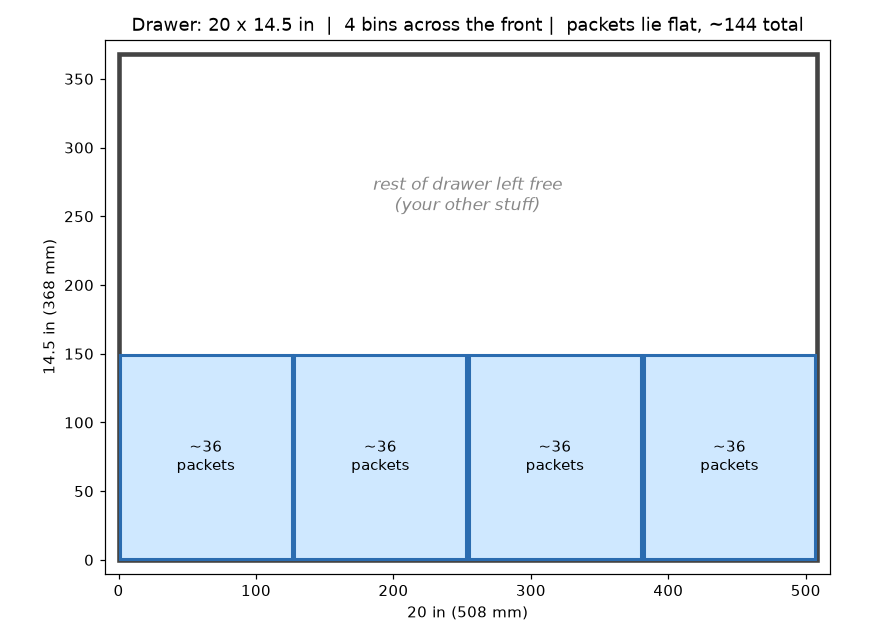
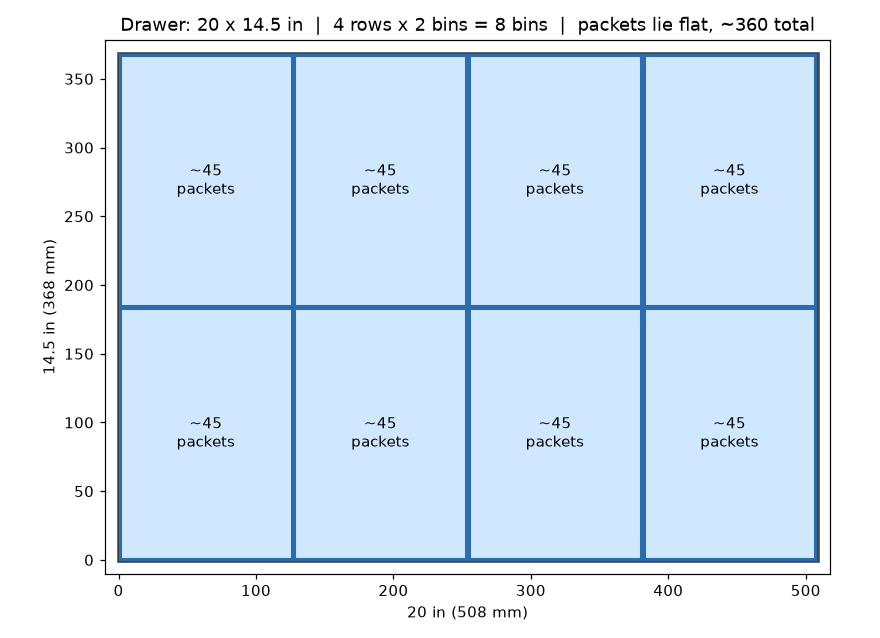
Fill whole drawer: 4 rows x 2 bins (flat-stack)
Rework to 4 rows of 5 in down the 20 in length, each row spanning the
14.5 in width. A full-width tray exceeds the H2D bed (~350 mm), so each
row is 2 bins side by side -> 2 x 4 grid, 8 identical bins filling the
whole drawer. Taller bins (50 mm) for flat stacks. Layout note only
shows free space when the grid does not fill the drawer.

Claude-Session: https://claude.ai/code/session_01N378vC5N84T5hZN3z5JBkC

diff --git a/src/generate_drawer_organizer.py b/src/generate_drawer_organizer.py
@@ -44,11 +44,12 @@ PKT_LEN = 4.25 * IN      # ~108 mm  long side, lies along the box width
 PKT_WIDE = 1.25 * IN     # ~32  mm  short side, lies along the box depth
 PKT_THICK = 0.20 * IN    # ~5   mm  thickness flat -> sets how many stack up
 
-# --- Grid: 4 bins across the FRONT of the drawer (one flavor each) ---
-COLS = 4                 # bins across the 20 in run
-ROWS = 1                 # rows of bins from the front (1 = front strip only)
-BOX_DEPTH = 150.0        # how far each bin reaches back (~6 in); rest of the
-                         # drawer stays free for your other stuff
+# --- Grid: fill the drawer with 5-in-deep rows, 2 bins per row ---
+# A full 14.5 in wide tray (~368 mm) is too big for the H2D bed (~350 mm),
+# so each "row across the width" is 2 bins side by side.
+COLS = 4                 # bins along the 20 in run  (4 x 5 in = 20 in)
+ROWS = 2                 # bins across the 14.5 in run (2 x ~7.25 in)
+BOX_DEPTH = 184.0        # depth per row = 14.5 in / 2 (fills the width)
 DRAWER_GAP = 2.0         # total slack per box per axis (drop-in clearance)
 
 # --- Box build ---
@@ -149,8 +150,11 @@ def main():
         os.makedirs(RENDER_DIR, exist_ok=True)
         fig, ax = plt.subplots(figsize=(8, 8 * DRAWER_W / DRAWER_L))
         ax.add_patch(Rectangle((0, 0), DRAWER_L, DRAWER_W, fill=False, lw=3, ec="#444"))
-        ax.text(DRAWER_L / 2, DRAWER_W * 0.72, "rest of drawer left free\n(your other stuff)",
-                ha="center", va="center", fontsize=11, color="#888", style="italic")
+        covered = ROWS * BOX_DEPTH
+        if covered < DRAWER_W - 20:
+            ax.text(DRAWER_L / 2, (covered + DRAWER_W) / 2,
+                    "rest of drawer left free\n(your other stuff)",
+                    ha="center", va="center", fontsize=11, color="#888", style="italic")
         for c in range(COLS):
             for r in range(ROWS):
                 x = c * (DRAWER_L / COLS) + DRAWER_GAP / 2
@@ -162,8 +166,8 @@ def main():
         ax.set_xlim(-10, DRAWER_L + 10)
         ax.set_ylim(-10, DRAWER_W + 10)
         ax.set_aspect("equal")
-        ax.set_title(f'Drawer: 20 x 14.5 in  |  {COLS*ROWS} bins across the front '
-                     f'|  packets lie flat, ~{total} total')
+        ax.set_title(f'Drawer: 20 x 14.5 in  |  {COLS} rows x {ROWS} bins = '
+                     f'{COLS*ROWS} bins  |  packets lie flat, ~{total} total')
         ax.set_xlabel("20 in (508 mm)")
         ax.set_ylabel("14.5 in (368 mm)")
         fig.tight_layout()
@@ -179,8 +183,8 @@ def main():
     print("=" * 62)
     print(f"Drawer inside : {DRAWER_L:.0f} x {DRAWER_W:.0f} x {DRAWER_D:.0f} mm "
           f"(20 x 14.5 x 2.4 in)")
-    print(f"Layout        : {COLS} bins across the front "
-          f"(reach {BOX_DEPTH/IN:.1f} in back; rest left free)")
+    print(f"Layout        : {COLS} rows along the 20 in x {ROWS} bins across "
+          f"the width = {COLS*ROWS} bins")
     print(f"Box outside   : {BOX_L:.1f} x {BOX_W:.1f} x {BOX_H:.1f} mm "
           f"({BOX_L/IN:.1f} x {BOX_W/IN:.1f} x {BOX_H/IN:.1f} in)")
     print(f"Box inside    : {inner_len:.1f} x {inner_dep:.1f} x {inner_ht:.1f} mm")

diff --git a/models/drawer_organizer/README.md b/models/drawer_organizer/README.md
@@ -12,16 +12,20 @@ No baseplate, no Gridfinity — **just bins**.
 
 ## Layout
 
-**4 bins across the front** of the drawer, each reaching ~6 in back. The rest of
-the drawer stays free for your other stuff. Each bin holds **~36 packets laid
-flat** (they stack ~9 high in the 2 in depth) → **~144 total**.
+**4 rows of 5 in down the 20 in length**, each row spanning the 14.5 in width.
+A full-width tray (~14.5 in / 368 mm) is bigger than the H2D bed (~350 mm), so
+each row is **2 bins side by side** → a **2 × 4 grid, 8 bins total**, filling the
+whole drawer. Each bin holds **~45 packets laid flat** (they stack ~9 high in
+the 2 in depth) → plenty of headroom for however many you keep.
+
+Each bin is **4.9 × 7.2 × 2 in** (125 × 182 × 50 mm) — fits the bed easily.
 
 ## What to print
 
 | File | What | Print how many |
 |------|------|----------------|
-| `drink_stick_box.stl` | One bin (125 × 148 × 50 mm), scooped front | **4×** (all identical) |
-| `drawer_layout_preview.stl` | The 4 bins placed in the drawer | **don't print** — just to eyeball it |
+| `drink_stick_box.stl` | One bin, scooped front | **8×** (all identical) |
+| `drawer_layout_preview.stl` | All 8 placed in the drawer | **don't print** — just to eyeball it |
 
 ## Print settings (Bambu H2D, one color)
 
@@ -33,15 +37,14 @@ flat** (they stack ~9 high in the 2 in depth) → **~144 total**.
 | Infill | 10–15% |
 | Supports | **None** (the scoop is a gentle arc) |
 | Orientation | As-is, open side up |
-| Per plate | ~2 bins per H2D plate → 2 plates for all 4 |
+| Per plate | ~2 bins per H2D plate → 4 plates for all 8 |
 
 ## Want it different? It's parametric
 
 Edit the CONFIG block in `src/generate_drawer_organizer.py` and re-run
 `python3 src/generate_drawer_organizer.py`:
 
-- **Fill the whole drawer** (front *and* back): set `ROWS = 2` → 8 bins.
-- **More / fewer bins across:** `COLS`.
-- **Deeper or shallower reach:** `BOX_DEPTH`.
+- **Only fill the front** (leave the back for other stuff): `ROWS = 1`.
+- **More / fewer rows down the length:** `COLS`.
 - **Taller / shorter bins:** `BOX_H`.
 - **Different packet or drawer:** `PKT_*`, `DRAWER_*`.
